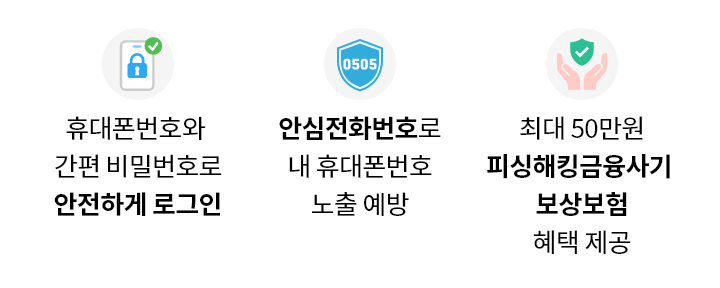
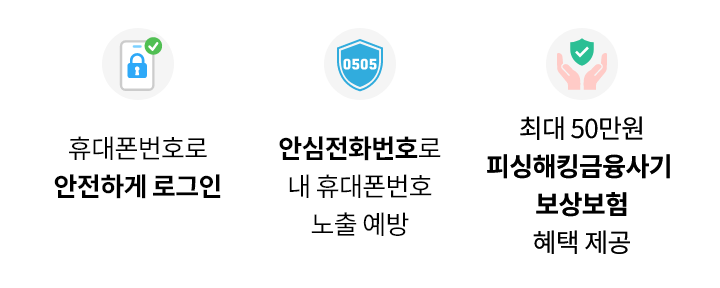
문구 수정. 배너 이미지 변경.

diff --git a/sfconn/html/sfconn_v2025.html b/sfconn/html/sfconn_v2025.html
@@ -8,11 +8,12 @@
 	<meta http-equiv="X-UA-Compatible" content="IE=edge">
 	<meta name="viewport" content="initial-scale=1.0, maximum-scale=1.0, minimum-scale=1.0, width=device-width, viewport-fit=contain, target-densitydpi=medium-dpi">
 	<link rel="stylesheet" type="text/css" href="../css/csc_v2025.css" />
+	
 	<script type="text/javascript" src="https://www.gstatic.com/recaptcha/releases/v1QHzzN92WdopzN_oD7bUO2P/recaptcha__ko.js" async=""></script>
 	<script type="text/javascript" src="https://www.google-analytics.com/analytics.js" async=""></script>
 	<!-- <script type="text/javascript" src="../sfconn/resources/safeconnect/js/jquery-1.11.1.js"></script> -->
 	<script type="text/javascript" src="https://ajax.googleapis.com/ajax/libs/jquery/1.12.4/jquery.min.js"></script>
-	<script type="text/javascript" src="../sfconn/resources/safeconnect/js/placeholders.jquery.js"></script>
+	<!-- <script type="text/javascript" src="../sfconn/resources/safeconnect/js/placeholders.jquery.js"></script> -->
 
 	<script>
 		(function(i,s,o,g,r,a,m){i['GoogleAnalyticsObject']=r;i[r]=i[r]||function(){

diff --git a/sfconn/html/sfconn_v2025_a.html b/sfconn/html/sfconn_v2025_a.html
@@ -785,8 +785,7 @@ var onloadCallback = function() {
 
 				<div class="notice_wrap">
 					<p class="txt">
-						사이트의 아이디, 비밀번호를 <strong>스마트폰 USIM과 보안서버에 보관</strong>하고 <strong>전화번호와 간편 비밀번호로 인증</strong>하여 안전하게 로그인 할 수 있는 보안서비스로
-						<em>부가세포함 월 1,100원</em>의 이용료가 발생합니다.
+						사이트의 아이디, 비밀번호를 <strong>스마트폰 USIM에 보관</strong>하고 <strong>전화번호로 인증</strong>하여 안전하게 로그인 할 수 있는 보안서비스로 <em>부가세포함 월 1,100원</em>의 이용료가 발생합니다.
 					</p>
 				</div>
 				

diff --git a/sfconn/html/sfconn_v2025_b.html b/sfconn/html/sfconn_v2025_b.html
@@ -785,8 +785,7 @@ var onloadCallback = function() {
 
 				<div class="notice_wrap">
 					<p class="txt">
-						사이트의 아이디, 비밀번호를 <strong>스마트폰 USIM과 보안서버에 보관</strong>하고 <strong>전화번호와 간편 비밀번호로 인증</strong>하여 안전하게 로그인 할 수 있는 보안서비스로
-						<em>부가세포함 월 1,100원</em>의 이용료가 발생합니다.
+						사이트의 아이디, 비밀번호를 <strong>스마트폰 USIM에 보관</strong>하고 <strong>전화번호로 인증</strong>하여 안전하게 로그인 할 수 있는 보안서비스로 <em>부가세포함 월 1,100원</em>의 이용료가 발생합니다.
 					</p>
 				</div>
 				
